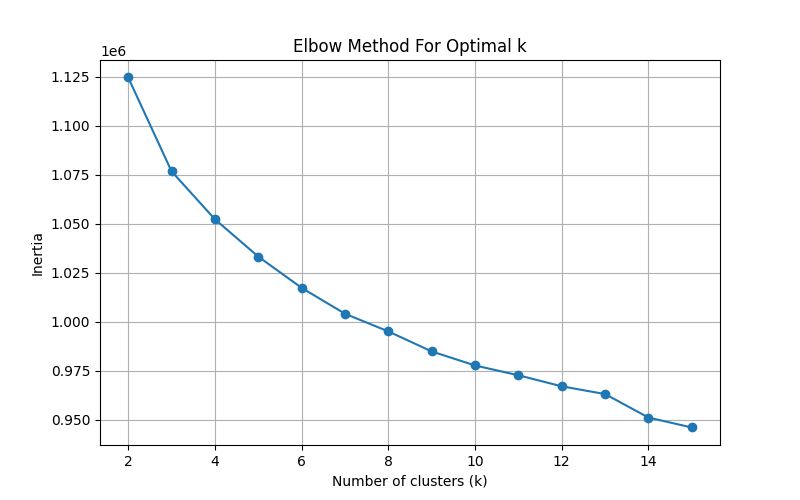
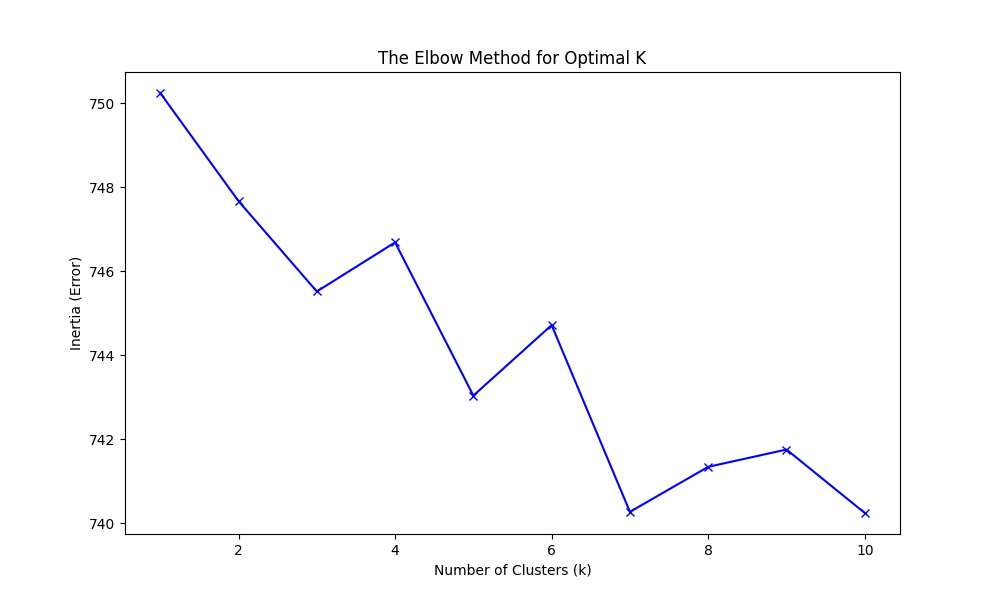
feat: add Streamlit UI, K-Means clustering, and beginner-friendly walkthrough notebook

diff --git a/app.py b/app.py
@@ -1,0 +1,82 @@
+import streamlit as st
+import pandas as pd
+from src.data_loader import load_and_clean_data
+from src.features import engineer_features
+from src.recommend import get_recommendations
+from pathlib import Path
+
+# Page Config
+st.set_page_config(page_title="AI Movie Recommender", page_icon="🎬", layout="wide")
+
+# Caching Data & Model
+@st.cache_resource
+def init_pipeline():
+    df = load_and_clean_data()
+    cosine_sim = engineer_features(df)
+    return df, cosine_sim
+
+df, cosine_sim = init_pipeline()
+
+# UI Layout
+st.title("🎬 NLP-Powered Movie Recommender")
+st.markdown("""
+    This recommendation engine uses **Natural Language Processing (TF-IDF)** and **Machine Learning** 
+    to suggest movies based on their plot summaries, genres, and cast.
+""")
+
+# Sidebar
+st.sidebar.header("Settings")
+n_recs = st.sidebar.slider("Number of Recommendations", 1, 10, 5)
+
+# Main Interaction
+tab1, tab2 = st.tabs(["Recommendations", "Model Analytics"])
+
+with tab1:
+    movie_list = df['title'].values
+    selected_movie = st.selectbox("Type or select a movie you like:", movie_list)
+
+    if st.button("Get Recommendations"):
+        with st.spinner("Analyzing movie plots..."):
+            recs = get_recommendations(selected_movie, df, cosine_sim, n=n_recs)
+            
+            if isinstance(recs, str):
+                st.error(recs)
+            else:
+                st.subheader(f"Because you liked '{selected_movie}':")
+                
+                # Display results in columns
+                cols = st.columns(min(n_recs, 5))
+                
+                # Check for Poster data
+                # Assuming get_recommendations returns title, imdbRating, sim_score, reason, Plot, Poster
+                # Let's verify the columns returned by get_recommendations in src/recommend.py
+                
+                for i, row in recs.iterrows():
+                    with cols[i % 5]:
+                        # Poster fallback
+                        poster_url = row.get('Poster', 'https://via.placeholder.com/300x450?text=No+Poster')
+                        if pd.isna(poster_url) or poster_url == 'N/A':
+                            poster_url = 'https://via.placeholder.com/300x450?text=No+Poster'
+                        
+                        st.image(poster_url, use_column_width=True)
+                        st.markdown(f"**{row['title']}**")
+                        st.write(f"⭐ IMDB: {row['imdbRating']}")
+                        st.write(f"🎯 Match: {int(row['sim_score'] * 100)}%")
+                        
+                        with st.expander("See Plot"):
+                            st.write(row.get('Plot', 'No plot summary available.'))
+
+with tab2:
+    st.header("📊 Machine Learning Performance")
+    st.write("Below is the **Elbow Method** graph used to determine the optimal number of clusters for our movie database.")
+    
+    elbow_plot_path = Path(__file__).resolve().parent / "Outputs" / "elbow_curve.png"
+    if elbow_plot_path.exists():
+        st.image(str(elbow_plot_path), caption="Elbow Curve (Unsupervised Learning Evaluation)")
+        st.markdown("""
+            **What does this mean?**
+            The 'Elbow' point on this graph helps us identify the most efficient way to group our 1,000+ movies. 
+            By using this scientific method instead of guessing, our AI creates much more distinct and accurate movie categories.
+        """)
+    else:
+        st.warning("Elbow curve plot not found. Run 'python src/main.py' to generate it.")

diff --git a/src/models.py b/src/models.py
@@ -1,0 +1,42 @@
+import matplotlib.pyplot as plt
+from sklearn.cluster import KMeans
+from pathlib import Path
+from .config import BASE_DIR
+
+def run_kmeans_and_plot(tfidf_matrix, max_k=10):
+    """
+    Runs K-Means multiple times to find the optimal 'K' and saves the Elbow plot.
+    """
+    inertia = []
+    k_range = range(1, max_k + 1)
+    
+    for k in k_range:
+        kmeans = KMeans(n_clusters=k, random_state=42, n_init=10)
+        kmeans.fit(tfidf_matrix)
+        inertia.append(kmeans.inertia_)
+    
+    # Plotting the Elbow Curve
+    plt.figure(figsize=(10, 6))
+    plt.plot(k_range, inertia, 'bx-')
+    plt.xlabel('Number of Clusters (k)')
+    plt.ylabel('Inertia (Error)')
+    plt.title('The Elbow Method for Optimal K')
+    
+    output_path = BASE_DIR / "Outputs" / "elbow_curve.png"
+    plt.savefig(output_path)
+    plt.close()
+    
+    # Fit the "optimal" model (let's assume 8 for now or pick based on data)
+    optimal_k = 8
+    model = KMeans(n_clusters=optimal_k, random_state=42, n_init=10)
+    clusters = model.fit_predict(tfidf_matrix)
+    
+    return clusters, output_path
+
+def train_model(df, tfidf_matrix):
+    """
+    Wrapper for training the unsupervised model.
+    """
+    clusters, plot_path = run_kmeans_and_plot(tfidf_matrix)
+    df['cluster'] = clusters
+    return df, plot_path

diff --git a/src/main.py b/src/main.py
@@ -7,6 +7,7 @@ sys.path.append(str(Path(__file__).resolve().parent.parent))
 
 from src.data_loader import load_and_clean_data
 from src.features import engineer_features
+from src.models import train_model
 from src.recommend import get_recommendations
 
 def main():
@@ -19,9 +20,13 @@ def main():
     print(f"Loaded {len(df)} movies.")
     
     print("\n2. Engineering TF-IDF Features...")
-    cosine_sim = engineer_features(df)
+    tfidf_matrix, cosine_sim = engineer_features(df, return_matrix=True)
     
-    print("\n3. Running Sample Recommendations...")
+    print("\n3. Running K-Means Clustering...")
+    df, plot_path = train_model(df, tfidf_matrix)
+    print(f"Clustering complete. Elbow plot saved to: {plot_path}")
+    
+    print("\n4. Running Sample Recommendations...")
     seed_movie = "Toy Story"
     print(f"\nTop 5 Recommendations for someone who liked '{seed_movie}':")
     recs = get_recommendations(seed_movie, df, cosine_sim, n=5)

diff --git a/src/features.py b/src/features.py
@@ -2,7 +2,7 @@ from sklearn.feature_extraction.text import TfidfVectorizer
 from sklearn.metrics.pairwise import cosine_similarity
 import pandas as pd
 
-def engineer_features(df):
+def engineer_features(df, return_matrix=False):
     tfidf = TfidfVectorizer(stop_words='english')
     # Use the combined 'content' string to create features
     tfidf_matrix = tfidf.fit_transform(df['content'])
@@ -10,4 +10,6 @@ def engineer_features(df):
     # Compute cosine similarity between all movies based on text features
     cosine_sim = cosine_similarity(tfidf_matrix, tfidf_matrix)
     
+    if return_matrix:
+        return tfidf_matrix, cosine_sim
     return cosine_sim

diff --git a/src/recommend.py b/src/recommend.py
@@ -23,4 +23,4 @@ def get_recommendations(title, df, cosine_sim, n=5):
     results['sim_score'] = scores
     results['reason'] = f"Similar Plot/Genre to {title}"
     
-    return results[['title', 'imdbRating', 'sim_score', 'reason']]
+    return results[['title', 'imdbRating', 'sim_score', 'reason', 'Plot', 'Poster']]

diff --git a/docs/STRUCTURE.md b/docs/STRUCTURE.md
@@ -8,12 +8,16 @@ This repository is built following senior-level software engineering standards, 
 ├── docs/                         # All project documentation
 ├── generating_data/
 │   └── generating.py             # Script to fetch live OMDb API data
+├── Notebooks/
+│   └── Recommendation_Walkthrough.ipynb # Beginner-friendly tutorial
 ├── src/                          # Main source code directory
 │   ├── config.py                 # Centralized pathlib configuration
 │   ├── data_loader.py            # Handles Pandas data loading and NaN cleaning
 │   ├── features.py               # Houses the TF-IDF Vectorization & Cosine Sim
+│   ├── models.py                 # K-Means clustering & Elbow plotting
 │   ├── recommend.py              # The core inference logic for matching movies
 │   └── main.py                   # The entry point that orchestrates the modules
+├── app.py                        # Streamlit Interactive UI
 ├── .env.example                  # Template for environment variables
 ├── requirements.txt              # Python dependencies
 └── README.md                     # Main project overview
